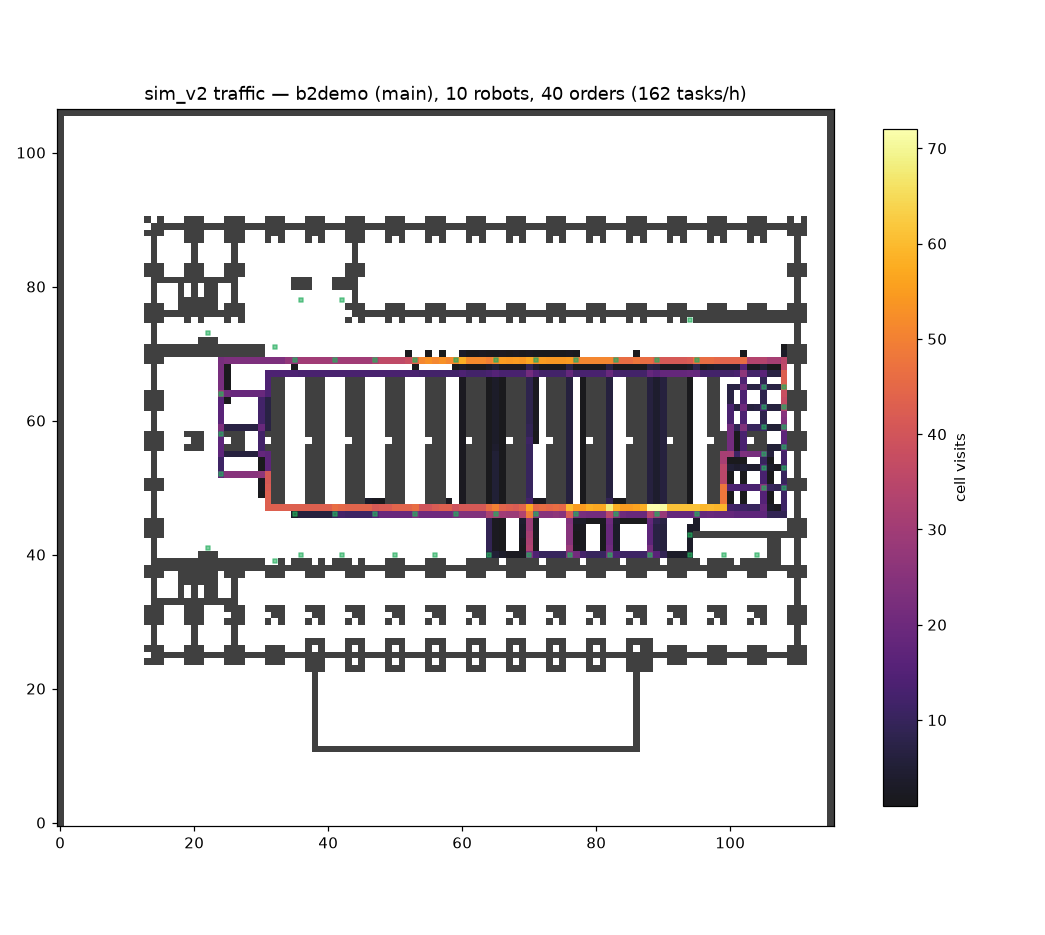
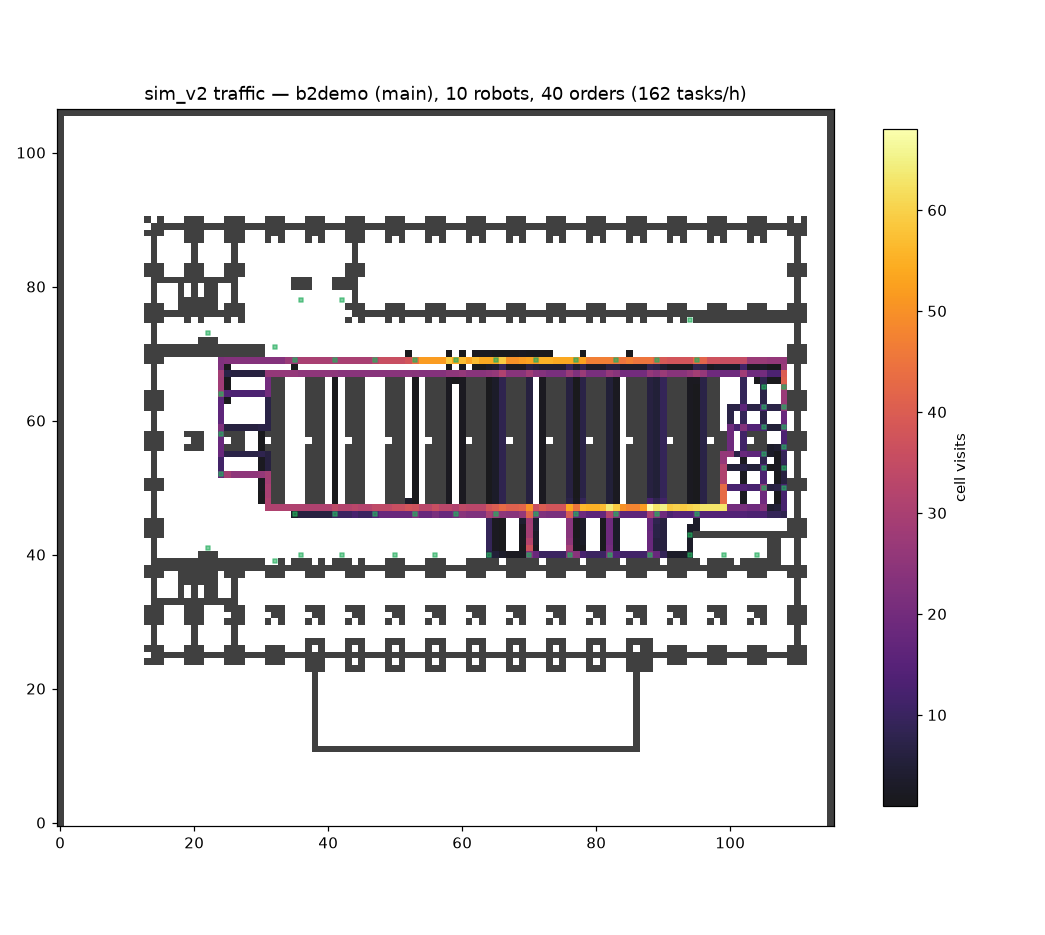
✨ feat: PIBT 거리항 θ 가중 다익스트라 — 극단 θ 정체 해소, 진입 엣지 꼼수 제거 (S15P21A106-78)
- pibt_core.dist_map(edge_cost=None|배열): None이면 기존 BFS(기본 경로 불변), 배열이면 역방향 다익스트라
- sim_v2 dmap: --theta일 때 가중 dist 사용
- from_theta: 교대 규칙을 통로 내부 간선으로 복원 (θ 합의안 v2 정합)
- 검증: MVP 데모 시나리오 4(우회·라이브니스) 추가, 더미 θ gain 3.5 완주, 분극 격차 +0.03→+1.00
- 회귀: pibt_mvp_demo/smoke/v1compat(SIM_CHECK)/fleet_sweep_b1e 통과, 기존 결과 불변

diff --git a/3_FMS/sim_engine/pibt_core.py b/3_FMS/sim_engine/pibt_core.py
@@ -19,29 +19,59 @@
 #   (r, c) = (y, x). r 증가 = 북쪽, c 증가 = 동쪽.
 #   방향 인덱스 0=북(r+1,c) 1=동(r,c+1) 2=남(r-1,c) 3=서(r,c-1), 반대=(방향+2)%4.
 #   edge_cost[r, c, d] = (r,c)에서 방향 d로 나갈 때 비용.
-#   contracts/guidance_types.py의 Guidance와 동일한 shape — 실제 θ가
-#   들어와도 이 모듈은 안 바뀐다 (from_theta 배관은 별도 이슈).
+#   contracts/guidance_types.py의 Guidance와 동일한 shape.
+#
+# 거리항 (docs/2026-09-02_Isaac회전충돌_격자유지_PIBT확장_결정.md §5):
+#   dist_map(edge_cost=None) = 비가중 BFS (v1compat·기존 벤치마크 경로, 불변).
+#   dist_map(edge_cost=...)  = θ 가중 다익스트라. 후보 score = edge + dist가
+#   정합해져 전진(= d)이 대기(= wait + d)를 항상 이김 → 비가중일 때의
+#   영구 정체(gain ≥ wait+1)가 사라지고, 비싼 통로는 dist 자체가 커져
+#   진입 시점부터 우회가 유도된다.
 # ============================================================
 from collections import deque
+from heapq import heappop, heappush
 
 import numpy as np
 
 DIRS = [(1, 0), (0, 1), (-1, 0), (0, -1)]  # 0=N 1=E 2=S 3=W
 
 
-def dist_map(free, goal):
-    """goal까지의 정적 최단거리(BFS, 4-연결). 도달 불가 칸은 -1."""
+def dist_map(free, goal, edge_cost=None):
+    """goal까지의 정적 최단 비용. 도달 불가 칸은 -1.
+    edge_cost=None → 비가중 BFS(int32, 칸 수).
+    edge_cost (H,W,4) → 가중 다익스트라(float64):
+        dist[u] = min_d edge_cost[u, d] + dist[u + DIRS[d]]
+    u에서 '나가는' 엣지 비용으로, goal에서 역방향(선행 칸 방향)으로 완화한다."""
     H, W = free.shape
-    dm = np.full((H, W), -1, dtype=np.int32)
-    dm[goal] = 0
-    q = deque([goal])
-    while q:
-        r, c = q.popleft()
-        for dr, dc in DIRS:
-            rr, cc = r + dr, c + dc
-            if 0 <= rr < H and 0 <= cc < W and free[rr, cc] and dm[rr, cc] < 0:
-                dm[rr, cc] = dm[r, c] + 1
-                q.append((rr, cc))
+    if edge_cost is None:
+        dm = np.full((H, W), -1, dtype=np.int32)
+        dm[goal] = 0
+        q = deque([goal])
+        while q:
+            r, c = q.popleft()
+            for dr, dc in DIRS:
+                rr, cc = r + dr, c + dc
+                if 0 <= rr < H and 0 <= cc < W and free[rr, cc] and dm[rr, cc] < 0:
+                    dm[rr, cc] = dm[r, c] + 1
+                    q.append((rr, cc))
+        return dm
+
+    dm = np.full((H, W), -1.0, dtype=np.float64)
+    done = np.zeros((H, W), dtype=bool)
+    dm[goal] = 0.0
+    pq = [(0.0, goal)]
+    while pq:
+        dv, (r, c) = heappop(pq)
+        if done[r, c]:
+            continue
+        done[r, c] = True
+        for d, (dr, dc) in enumerate(DIRS):
+            ur, uc = r - dr, c - dc                  # u + DIRS[d] == (r, c)
+            if 0 <= ur < H and 0 <= uc < W and free[ur, uc] and not done[ur, uc]:
+                nd = dv + float(edge_cost[ur, uc, d])
+                if dm[ur, uc] < 0 or nd < dm[ur, uc]:
+                    dm[ur, uc] = nd
+                    heappush(pq, (nd, (ur, uc)))
     return dm
 
 
@@ -119,13 +149,15 @@ def run(free, starts, goals, edge_cost=None, wait_cost=None, max_steps=200):
     반환: history — list[dict agent->pos], 인덱스 0이 초기 배치.
     max_steps 안에 전원 도달 못 하면 SystemExit(정체)."""
     H, W = free.shape
+    weighted = edge_cost is not None          # 비용이 주어지면 거리항도 가중
     if edge_cost is None:
         edge_cost = np.ones((H, W, 4), dtype=np.float64)
     if wait_cost is None:
         wait_cost = np.ones((H, W), dtype=np.float64)
     agents = list(starts)
     positions = dict(starts)
-    dists = {a: dist_map(free, goals[a]) for a in agents}
+    dists = {a: dist_map(free, goals[a], edge_cost if weighted else None)
+             for a in agents}
     wait_counter = {a: 0 for a in agents}
     history = [dict(positions)]
 

diff --git a/3_FMS/sim_engine/pibt_mvp_demo.py b/3_FMS/sim_engine/pibt_mvp_demo.py
@@ -14,12 +14,15 @@
 #    한쪽이 방(retreat 공간)으로 물러나 비켜주고 둘 다 도달 (B-1c/1d DoD,
 #    HANDOFF_v4 §8 "정면충돌 후 진입로 막힘" 재현 대상)
 # 3) 결정론: 동일 설정 2회 실행, 매 틱 위치가 완전히 같은지 확인 (B-1b DoD)
+# 4) 가중 거리항 (2026-09-02 결정 §5): (a) 비싼 직행로 대신 싼 우회로를 택하는지,
+#    (b) 비싼 엣지밖에 없는 통로에서 정체 없이 전진하는지 (비가중이면 대기가 이겨
+#    영구 정체 → SystemExit)
 #
 # 사용: python pibt_mvp_demo.py
 # ============================================================
 import numpy as np
 
-from pibt_core import run
+from pibt_core import dist_map, run
 
 
 def check_collisions(history, free):
@@ -83,8 +86,38 @@ def scenario_determinism():
     print(f"[3] 결정론 확인: 동일 설정 2회 실행, {len(h1) - 1}스텝 전부 일치 OK")
 
 
+def scenario_weighted_dist():
+    # (a) 우회: 3행 격자, 가운데 행(r=1) 동행 엣지만 비용 5.0. 칸 수로는 직행(5)이
+    #     우회(7)보다 짧지만 비용은 25 vs 7 → 가중이면 r=0 또는 r=2로 돌아가야 함.
+    H, W = 3, 6
+    free = np.ones((H, W), dtype=bool)
+    ec = np.ones((H, W, 4))
+    ec[1, :, 1] = 5.0
+    dm = dist_map(free, (1, 5), ec)
+    assert abs(dm[1, 0] - 7.0) < 1e-9, f"가중 dist 오류: {dm[1, 0]} (기대 7.0)"
+    hist_w = run(free, {0: (1, 0)}, {0: (1, 5)}, edge_cost=ec, max_steps=30)
+    hist_u = run(free, {0: (1, 0)}, {0: (1, 5)}, max_steps=30)
+    check_collisions(hist_w, free)
+    rows_w = {p[0][0] for p in hist_w}
+    rows_u = {p[0][0] for p in hist_u}
+    assert hist_w[-1][0] == (1, 5) and rows_w != {1}, f"가중인데 우회 안 함: {hist_w}"
+    assert rows_u == {1}, f"비가중인데 직행 안 함: {hist_u}"
+    print(f"[4a] 가중 거리항 우회: 비가중 {len(hist_u)-1}스텝 직행 / "
+          f"가중 {len(hist_w)-1}스텝 우회(행 {sorted(rows_w)}) OK")
+
+    # (b) 라이브니스: 폭 1 통로, 모든 엣지 4.0, wait 1.0. 비가중이면
+    #     전진(4+d-1) > 대기(1+d)라 영원히 서 있음. 가중이면 전진 = d < 대기.
+    free = _corridor_grid()
+    ec = np.full(free.shape + (4,), 4.0)
+    hist = run(free, {0: (1, 0)}, {0: (1, 8)}, edge_cost=ec, max_steps=30)
+    check_collisions(hist, free)
+    assert hist[-1][0] == (1, 8), f"가중인데 정체: {hist[-1]}"
+    print(f"[4b] 가중 거리항 라이브니스: 엣지 4.0 통로 {len(hist)-1}스텝 완주 OK")
+
+
 if __name__ == "__main__":
     scenario_single_agent()
     scenario_head_on()
     scenario_determinism()
-    print("[DONE] PIBT 코어 MVP 검증 3개 시나리오 전부 통과")
+    scenario_weighted_dist()
+    print("[DONE] PIBT 코어 MVP 검증 4개 시나리오 전부 통과")

diff --git a/3_FMS/sim_engine/from_theta.py b/3_FMS/sim_engine/from_theta.py
@@ -5,8 +5,8 @@
 #
 # 토폴로지는 wallA 전용 규칙 기반 추출 (A트랙 topology_tensor 15ch는
 # 스키마 합의 대기 — 여기서는 from_theta에 필요한 최소 필드만).
-# dist_map은 비가중 BFS 그대로 — θ는 PIBT 후보 score의 edge_cost 항으로만
-# 작용한다 (설계 §4: 엣지 비용 차 2 초과 시 우회 강제 가능).
+# 거리항은 sim_v2가 --theta일 때 이 edge_cost로 가중 다익스트라를 돌린다
+# (pibt_core.dist_map, docs/2026-09-02 결정 §5).
 # ============================================================
 import json
 import os
@@ -102,17 +102,15 @@ def from_theta(free, topo, theta):
     ec = np.ones((H, W, 4), dtype=np.float32)
 
     # 1) 세로 통로 교대 순환 (명세 §12 그룹 공식. 그룹0=북 선호, 그룹1=남 선호)
-    #    통로 칸에서 나가는 N/S 엣지 + 통로 칸으로 들어가는 N/S 엣지 모두 적용.
-    #    진입 엣지가 중립이면 PIBT의 국소 score는 통로 안에 들어간 뒤에야
-    #    방향 비용을 보게 되어 진입 시점의 통로 선택 유도가 안 된다 (설계 §4).
+    #    통로 내부 칸에서 나가는 N/S 엣지에만 적용 (θ 합의안: 양 끝 aisle_id 동일).
+    #    진입 시점의 통로 선택 유도는 가중 다익스트라 거리항이 담당한다
+    #    (docs/2026-09-02 결정 §5) — 진입 엣지 확장 꼼수는 제거됨.
     on = topo.v_aisle_rank >= 0
     group = (topo.v_aisle_rank // theta.aisle_period + theta.aisle_phase) % 2
     for g, pref in ((0, 0), (1, 2)):                     # (그룹, 선호 방향)
         cells = on & (group == g)
-        into = _edges_into(cells)
-        anti = (pref + 2) % 4
-        ec[..., pref][cells | into[..., pref]] *= theta.aisle_alt_boost
-        ec[..., anti][cells | into[..., anti]] *= theta.aisle_alt_gain
+        ec[..., pref][cells] *= theta.aisle_alt_boost
+        ec[..., (pref + 2) % 4][cells] *= theta.aisle_alt_gain
 
     # 2) 외곽 순환 — 순방향의 역방향 엣지에 벌금 (수직 진출입은 불변)
     fwd = topo.loop_fwd if theta.loop_dir == 0 else \

diff --git a/3_FMS/sim_engine/from_theta_demo.py b/3_FMS/sim_engine/from_theta_demo.py
@@ -33,10 +33,11 @@ NEUTRAL = dict(aisle_alt_gain=1.0, aisle_alt_boost=1.0, loop_gain=1.0,
                main_aisle_gain=1.0, junction_penalty=1.0, station_in=1.0,
                station_out=1.0, wait_cost=1.0,
                aisle_period=1, aisle_phase=0, loop_dir=0)
-# 더미 θ: 교대 순환만 강하게. 단 라이브니스 제약(설계 §4) 안쪽으로 —
-# gain ≥ wait_cost+1 이면 "비싼 방향 전진"보다 "제자리 대기"가 매 틱 이겨서
-# 영구 정체가 된다 (gain 3.5로 실측 STALL 확인, 2026-09-01).
-DUMMY = dict(NEUTRAL, aisle_alt_gain=1.8, aisle_alt_boost=0.5)
+# 더미 θ: 교대 순환을 범위 극단(gain 3.5, boost 0.5)으로.
+# 비가중 BFS 거리항에서는 gain ≥ wait+1 이라 영구 정체(2026-09-01 실측 STALL)
+# 였던 값 — 가중 다익스트라(2026-09-02 결정)로 정체 없이 완주해야 한다.
+# 즉 이 데모의 sim_v2 θ 실행 성공 자체가 라이브니스 회귀 테스트다.
+DUMMY = dict(NEUTRAL, aisle_alt_gain=3.5, aisle_alt_boost=0.5)
 
 
 def theta_of(d):
@@ -95,6 +96,7 @@ def main():
         assert r.returncode == 0, f"sim_v2 {label} 실행 실패:\n{r.stdout}\n{r.stderr}"
         summary = [ln for ln in r.stdout.splitlines() if "[SUMMARY]" in ln]
         print(f"[5] sim_v2 {label:7s}: {summary[0][:110]}")
+    print("    (극단 θ 3.5에서 STALL 없이 완주 — 가중 거리항 라이브니스 OK)")
 
     def nshare(npz, mask):
         flow = np.load(npz)["dir_flow"]
@@ -127,7 +129,7 @@ def main():
         net = np.where(on, flow[..., 0] - flow[..., 2], 0)
         nets.append(net)
         lim = max(lim, abs(net).max())
-    for ax, net, title in zip(axes, nets, ("uniform", "dummy θ (alt 1.8/0.5)")):
+    for ax, net, title in zip(axes, nets, ("uniform", "dummy θ (alt 3.5/0.5)")):
         ax.imshow(np.where(free, 1.0, 0.25), cmap="gray", vmin=0, vmax=1,
                   origin="lower")
         im = ax.imshow(np.where(on, net, np.nan), cmap="coolwarm",

diff --git a/3_FMS/sim_engine/sim_v2_tasks.py b/3_FMS/sim_engine/sim_v2_tasks.py
@@ -77,8 +77,10 @@ _dist_cache = {}
 
 
 def dmap(goal):
+    """목표별 거리장 캐시. --theta면 θ 가중 다익스트라, 아니면 비가중 BFS
+    (기본 경로 불변). θ는 실행 중 고정이라 캐시 무효화 불필요."""
     if goal not in _dist_cache:
-        _dist_cache[goal] = dist_map(FREE, goal)
+        _dist_cache[goal] = dist_map(FREE, goal, edge_cost if THETA_PATH else None)
     return _dist_cache[goal]
 
 
